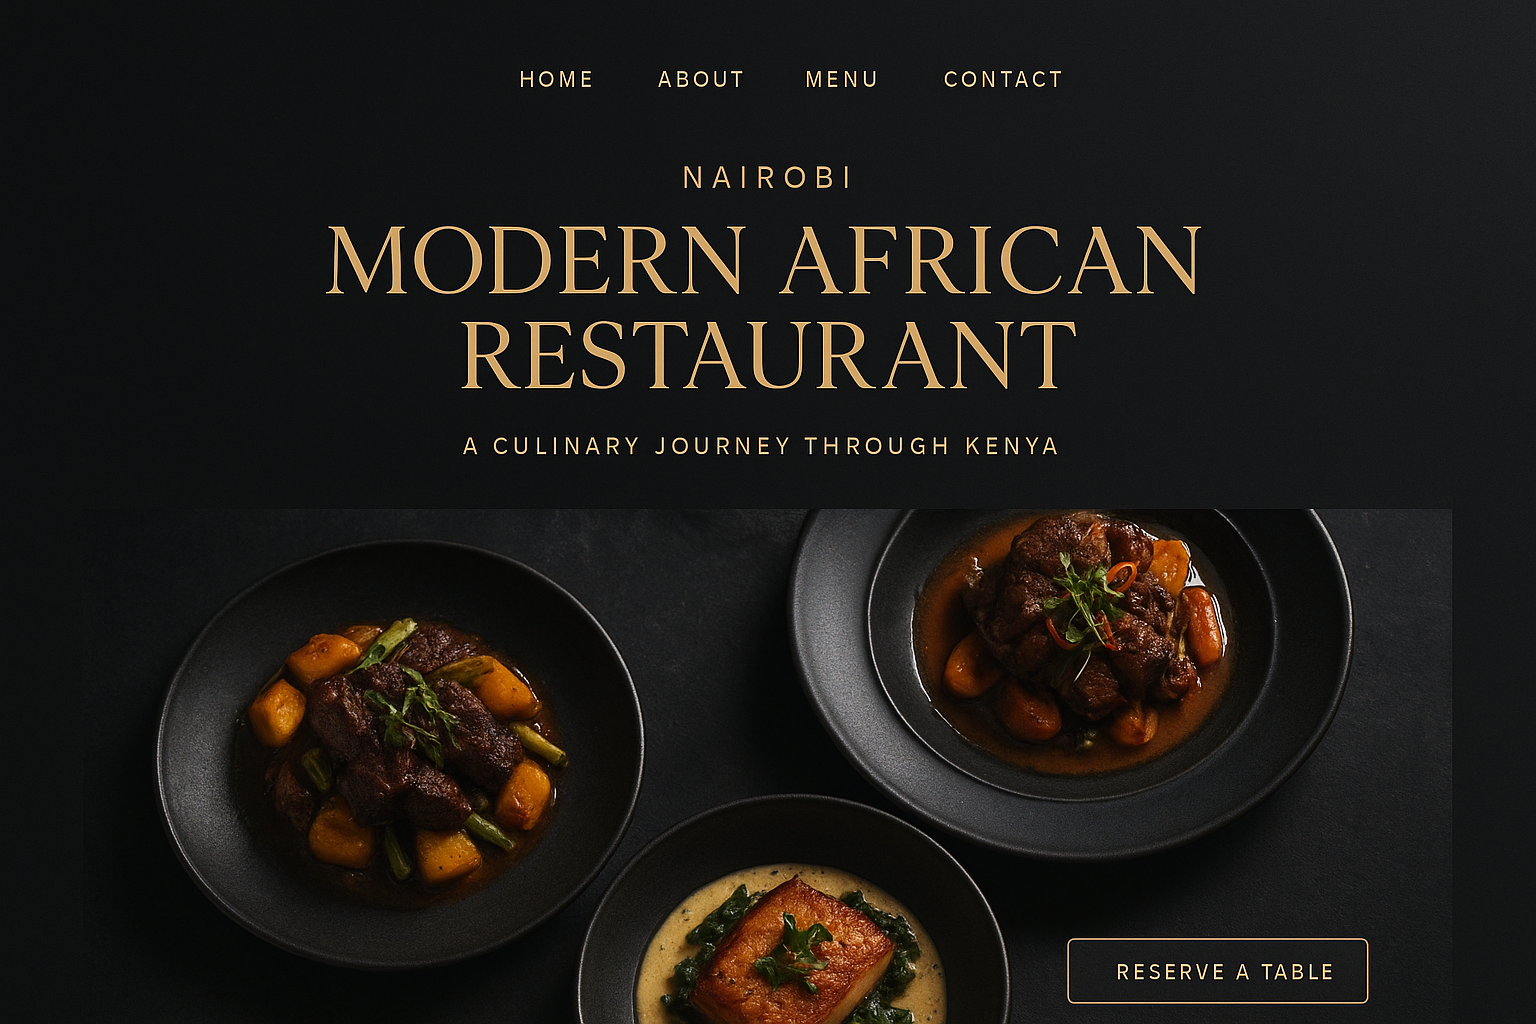
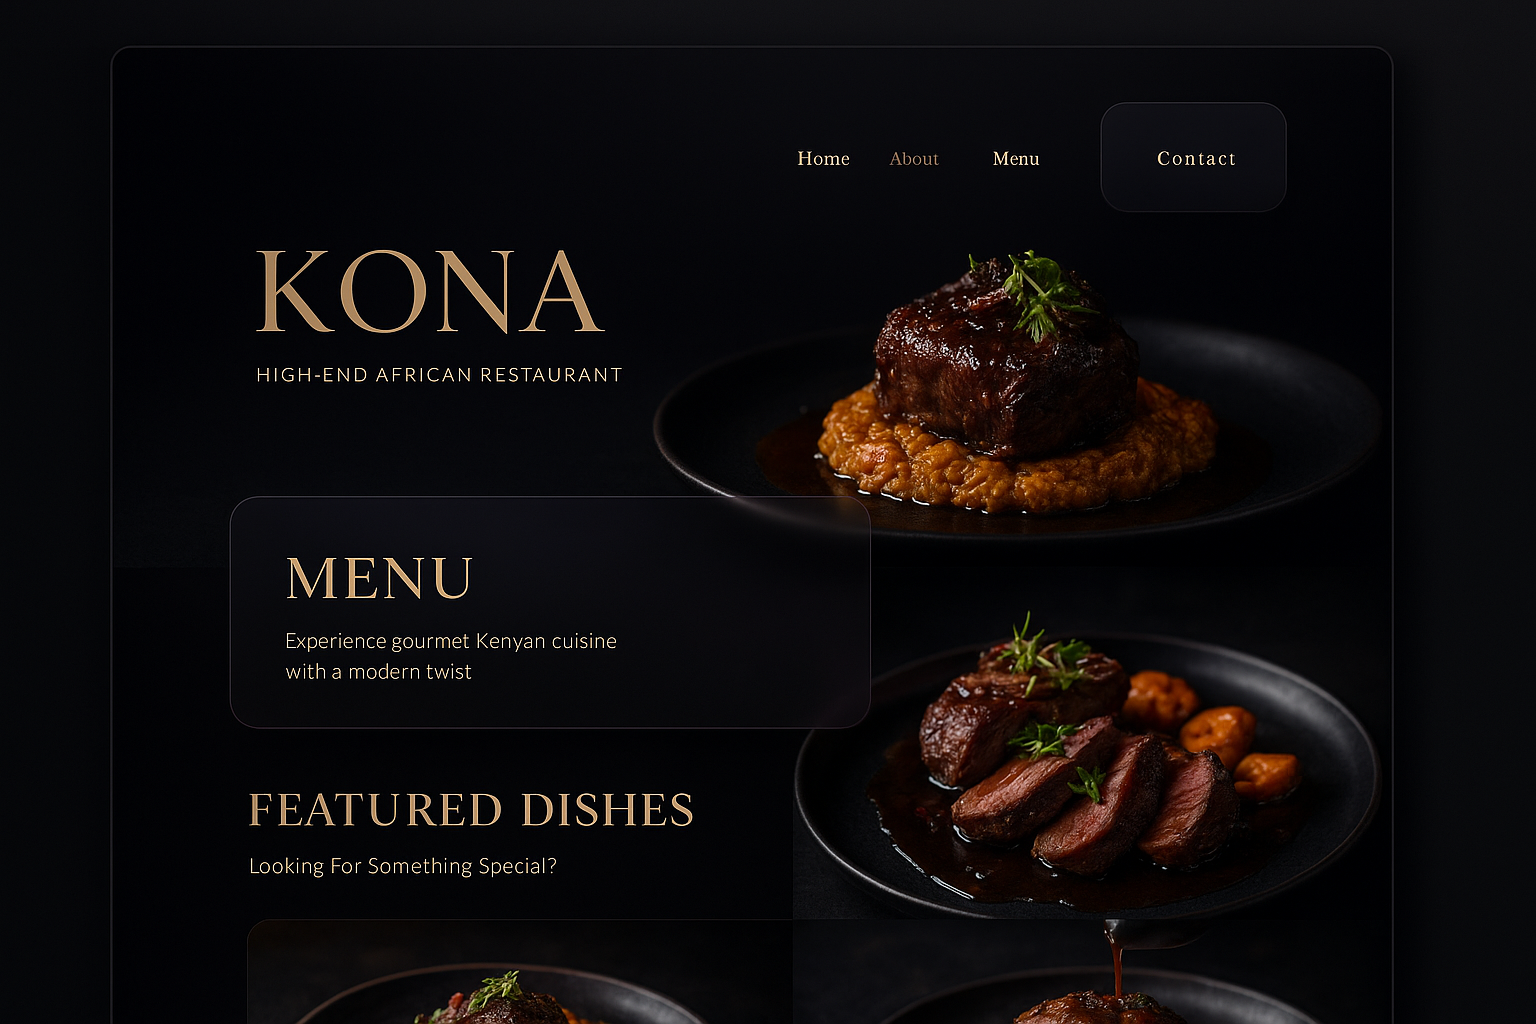
Fix: Portfolio assets alignment and premium medical showcase

diff --git a/src/components/PortfolioSection.tsx b/src/components/PortfolioSection.tsx
@@ -18,22 +18,22 @@ const portfolioItems = [
   {
     title: "Azure Heights",
     category: "Real Estate",
-    image: "/assets/portfolio-fashion.png", // Placeholder
+    image: "/assets/portfolio-realestate.png",
   },
   {
     title: "Serene Stays",
     category: "Hotel",
-    image: "/assets/portfolio-restaurant.png", // Placeholder
+    image: "/assets/portfolio-hotel.png",
   },
   {
     title: "Nexus Tech Lab",
     category: "Tech Startup",
-    image: "/assets/portfolio-fashion.png", // Placeholder
+    image: "/assets/portfolio-tech.png",
   },
   {
     title: "Vitality Clinic",
     category: "Medical",
-    image: "/assets/portfolio-restaurant.png", // Placeholder
+    image: "/assets/portfolio-medical.png",
   },
 ];
 